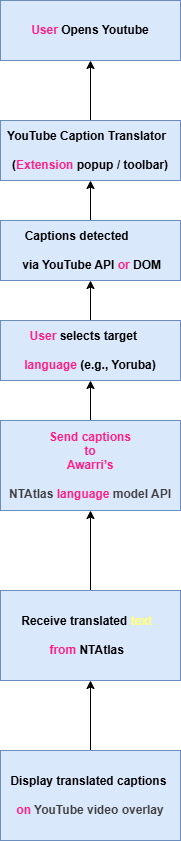
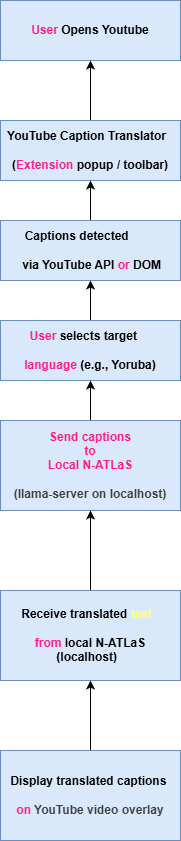
removed on the readme

Changed region(s): [[0.1105, 0.7111, 0.8564, 0.8038], [0.0552, 0.5256, 0.6354, 0.6183], [0.663, 0.5256, 0.9392, 0.6183]]

diff --git a/options.html b/options.html
@@ -47,7 +47,7 @@ You should see: N-ATLaS-GGUF-Q8_0.gguf</pre>
           <li>Start the model server (from the same folder):
             <pre style="margin:6px 0">llama-server -m N-ATLaS-GGUF-Q8_0.gguf --port 8080</pre>
           </li>
-          <li>Test the OpenAI-style API (open a new Command Prompt and run):
+          <li>Test the local server's OpenAI-compatible endpoint (open a new Command Prompt and run):
             <pre style="margin:6px 0">curl http://127.0.0.1:8080/v1/chat/completions ^
   -H "Content-Type: application/json" ^
   -d "{\"model\": \"local\", \"messages\": [{\"role\": \"user\", \"content\": \"Hello\"}]}"

diff --git a/popup.js b/popup.js
@@ -160,7 +160,7 @@ function pickShortSentence(text, maxLen = 300) {
   return text.slice(-maxLen).trim();
 }
 
-// Translate text using local llama-server (OpenAI-compatible).
+// Translate text using local llama-server (OpenAI-compatible local endpoint — not OpenAI cloud).
 async function translateText(text, targetLangCode) {
   if (!text) return '';
   // pick concise sentence to avoid long generation and reduce timeout risk

diff --git a/README.md b/README.md
@@ -1,8 +1,8 @@
+![Project Image](assets/image.png)
+
 ---
 
 # 🎬 YouTube Caption Translator (Local N-ATLaS)
-
-![YouTube Caption Translator](assets/image.png)
 
 The **YouTube Caption Translator** is a Chrome extension that automatically translates YouTube video captions into a user’s **native language** using a local language model (N-ATLaS / llama-server) running on the user's machine. No external cloud API calls are required — all translation happens locally.
 
@@ -30,9 +30,11 @@ The high-level process flow is illustrated below:
 6.  Translated text is received from the local model and rendered as subtitles
 7.  Translated captions appear in real-time on the video
 
-📊 The system flow diagram can be viewed in:
+**Architecture**
 
-![System Flow](assets/flowchart.svg)
+The diagram below shows the extension architecture and how it communicates with a locally hosted LLaMA/llama-server instance running on your machine.
+
+![Architecture Diagram](assets/flowchart.png)
 
 ---
 
@@ -85,9 +87,9 @@ Open chrome://extensions/Enable Developer ModeClick 'Load unpacked' and select t
 
 ## 🔗 Local model (N-ATLaS / llama-server)
 
-This project uses a locally hosted model instance (N-ATLaS or a compatible llama-server). No cloud API key is required. The extension sends translation requests to the local server's OpenAI-compatible endpoint `/v1/chat/completions`.
+This project uses a locally hosted model instance (N-ATLaS or a compatible llama-server). No cloud API key is required. The extension sends translation requests to the local server's OpenAI-compatible endpoint `/v1/chat/completions` on your machine (localhost — not the cloud).
 
-If you need help starting a local llama-server, follow the step-by-step instructions below (Windows example). These steps show how to install a llama-server, place the GGUF model, start the server, and test the OpenAI-style API.
+If you need help starting a local llama-server, follow the step-by-step instructions below (Windows example). These steps show how to install a llama-server, place the GGUF model, start the server, and test the local server's OpenAI-compatible endpoint (this is a local endpoint, not OpenAI's cloud API).
 
 ### Local setup (Windows example)
 
@@ -125,7 +127,7 @@ What this does:
 
 -   Starts the AI model locally
 -   Runs the server on port `8080`
--   Exposes an OpenAI-style API at `http://localhost:8080`
+-   Exposes an OpenAI-compatible local endpoint at `http://localhost:8080` (local only — not OpenAI cloud)
 
 5.  Verify the server is working (open a new Command Prompt and run):
 
@@ -151,7 +153,7 @@ If you'd like I can add macOS / Linux examples or a short troubleshooting checkl
 
 ## 🧑💻 Contributors
 
--   **Your Name** — Developer
+-   **Timothy Ignatius Agbor** — Developer
 -   **Awarri AI Team** — Language model provider
 
 ---
